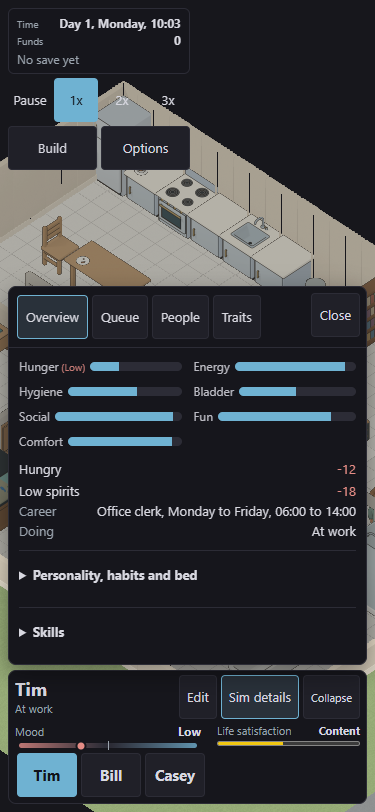
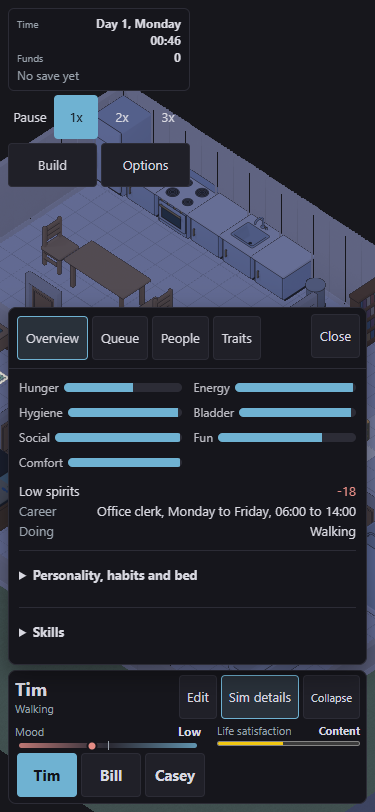
Put the Time label above the clock in the narrow desktop panel

Changed region(s): [[0.0, 0.0, 1.0, 1.0], [0.2347, 0.0, 0.4987, 0.0924], [0.2053, 0.8929, 0.264, 0.9236]]

diff --git a/web/src/ui/compact-hud.css b/web/src/ui/compact-hud.css
@@ -21,6 +21,13 @@
 #household-summary .summary-value { font-size: 12px; overflow-wrap: anywhere; }
 /* The clock is always two lines, day and weekday then time, so the panel keeps one height. */
 #clock-value { white-space: pre-line; }
+/* In the 144-pixel desktop panel the Time label sits above the clock, so the
+   clock has the panel's full inner width and keeps two lines on every day.
+   The wider compact and Build panels keep the label beside it. */
+@media (min-width: 601px) and (min-height: 481px) and (not (any-pointer: coarse)) {
+  body:not([data-building='true']) #clock-row { flex-direction: column; align-items: stretch; gap: 0; }
+  body:not([data-building='true']) #clock-row .summary-value { text-align: left; }
+}
 #hud-status { margin-top: 2px; }
 #world-actions { display: grid; grid-template-columns: 1fr 1fr; gap: 4px; }
 #world-actions #builder-desktop { padding: 0; }

diff --git a/web/index.html b/web/index.html
@@ -944,7 +944,7 @@
          they read all the time. -->
     <div id="hud">
       <section id="household-summary" aria-label="Household status">
-        <div class="summary-row">
+        <div id="clock-row" class="summary-row">
           <span class="summary-label">Time</span>
           <strong id="clock-value" class="summary-value">Day 1, Monday&#10;00:00</strong>
         </div>

diff --git a/docs/specs/2026-10-06-calendar-verification.md b/docs/specs/2026-10-06-calendar-verification.md
@@ -57,36 +57,34 @@ The web tests are in `web/tests/game-hud.test.ts` and `web/tests/bridge.test.ts`
 
 ## Displayed browser
 
-Screenshots checked: the working tree of `twcl/calendar` on top of `63e3142b`, with the first version of this task's changes, before they were committed. That version printed the clock on one line; the two-line clock was measured afterwards, as described below. The bundle `assets/index-BwR1pszi.js` was built with `npm run build` after `wasm-pack build crates/terri-wasm --target web --out-dir ../../web/src/wasm`, and served with `npx vite preview --port 4173 --strictPort` from `web/` at `https://localhost:4173/`.
+Code checked: the working tree of `twcl/calendar` on top of `0b94e565`, with the stacked Time row, before it was committed. The bundle `assets/index-BWj0fjLn.js` was built with `npm run build` from the wasm package built by `wasm-pack build crates/terri-wasm --target web --out-dir ../../web/src/wasm`, and served with `npx vite preview --port 4173 --strictPort` from `web/` at `https://localhost:4173/`.
 
-The in-app browser pane loaded the bundle but was hidden and delivered no animation frames in two seconds, so the check used the Playwright plugin's Chromium (Chrome 154 on Windows, with `navigator.gpu` present), which ran 58 frames a second. Sound was muted before the game ran by setting `terrilives.audio-preferences.v1` to `{"version":1,"muted":true,"effectsLevel":0,"voicesLevel":0}` and reloading; the Options flyout showed `Sound: off`. The first-run Help was already dismissed in that browser profile.
+The in-app browser pane loaded the game but was hidden and delivered no animation frames in two seconds, so the check used the Playwright plugin's Chromium (Chrome 154 on Windows, with `navigator.gpu` present), which ran about 58 frames a second. `terrilives.audio-preferences.v1` held `{"version":1,"muted":true,"effectsLevel":0,"voicesLevel":0}`, and the Options flyout showed `Sound: off` before and after New game. The first-run Help was already dismissed in that browser profile.
 
-That profile held another session's saved household (3488 bytes, SHA-256 `1b47dbca...2a3eec`). It was copied to a backup file in the same browser storage, `New game` then `Start over` gave the shipped lot, and after the check the backup was written back over the save, compared byte for byte and found equal, with the same SHA-256, and the backup removed. The page was closed on Day 1 at 12:17, before the next day's autosave.
+That profile held another session's saved household (3488 bytes, SHA-256 `1b47dbca...2a3eec`). It was copied to a backup file in the same browser storage, `New game` then `Start over` gave the shipped lot, and in the script's final step the backup was written back over the save, compared byte for byte and found equal, with the same SHA-256, and the backup removed. The page was closed on Day 1 at 00:47, long before the next day's autosave.
 
 Tim was selected and Sim details opened on Overview.
 
-1. [Desktop, 1280 by 800](../assets/review-evidence/calendar/desktop-clock.png): the clock reads `Day 1, Monday, 03:02` and the Career row reads `Office clerk, Monday to Friday, 06:00 to 14:00`.
-2. [Phone, 375 by 812](../assets/review-evidence/calendar/phone-clock.png): the clock reads `Day 1, Monday, 10:03`, Tim's activity reads `At work`, and the Career row shows the same text on one line. The document's scroll width equalled its 375-pixel client width.
+1. [Desktop, 1280 by 800](../assets/review-evidence/calendar/desktop-clock.png): the household panel shows the `Time` label above the clock `Day 1, Monday` and `00:30`, and the Career row reads `Office clerk, Monday to Friday, 06:00 to 14:00`.
+2. [Phone, 375 by 812](../assets/review-evidence/calendar/phone-clock.png): the compact panel keeps the `Time` label beside the clock `Day 1, Monday` and `00:46`, and the Career row shows the same text on one line. No element extended past the right edge, and the document's scroll width equalled its 375-pixel client width.
 
-Two-line clock: the working tree on top of `1b372a2c` with the two-line change, bundle `assets/index-B-iq77M0.js`, served the same way and opened in the same Playwright Chromium. The clock element's computed `white-space` was `pre-line`. Each text below was set in place on `#clock-value` and the household panel measured, then the live text was put back. The saved household in that profile was not replaced for this measurement; its SHA-256 was the same before and after.
+On the desktop layout, where the panel is 144 pixels wide, the Time row is stacked: the computed `flex-direction` of `#clock-row` was `column`, and the clock had the panel's full inner width of 126 pixels. The compact layout, used below 601 pixels wide or 481 pixels tall and on coarse pointers, keeps the label beside the clock in a 182-pixel panel; its `flex-direction` was `row`. The clock element's computed `white-space` was `pre-line` in both. Each text below was set in place on `#clock-value` and the household panel measured, then the live text was put back.
 
-| Clock text | Desktop, 1280 by 800: lines, panel height | Phone, 375 by 812: lines, panel height |
+| Clock text | Desktop: lines, panel height | Phone: lines, panel height |
 |---|---|---|
-| `Day 1, Monday` / `00:00` | 2, 83.2 px | 2, 83.2 px |
-| `Day 5, Friday` / `12:00` | 2, 83.2 px | 2, 83.2 px |
-| `Day 3, Wednesday` / `23:59` | 3, 100.0 px | 2, 83.2 px |
-| `Day 13, Wednesday` / `23:59` | 3, 100.0 px | 2, 83.2 px |
-| `Day 100, Wednesday` / `23:59` | 3, 100.0 px | 2, 83.2 px |
-| `Day 1000, Wednesday` / `23:59` | 3, 100.0 px | 2, 83.2 px |
-| `Day and time unavailable` | 2, 83.2 px | 2, 83.2 px |
+| `Day 1, Monday` / `00:00` | 2, 97.19 px | 2, 83.19 px |
+| `Day 3, Wednesday` / `23:59` | 2, 97.19 px | 2, 83.19 px |
+| `Day 100, Wednesday` / `23:59` | 2, 97.19 px | 2, 83.19 px |
+| `Day 100, Saturday` / `23:59` | 2, 97.19 px | 2, 83.19 px |
+| `Day 1000, Thursday` / `23:59` | 2, 97.19 px | 2, 83.19 px |
 
-On the phone viewport the panel height is the same for every text. On desktop it is not: the value column beside the `Time` label is 100 pixels wide inside the 144-pixel panel, and `Day 3, Wednesday` needs 104 pixels on one line, so the first line wraps and the panel grows by 16.8 pixels, moving the controls below it. Checking every weekday at 23:59 on days 1, 10 and 100, the panel grew on every Wednesday, and from day 100 also on Thursdays and Saturdays; the other weekdays kept 83.2 pixels. Nothing overflowed the panel and the document's scroll width equalled its client width at both sizes. Measured with the first line kept unwrapped (`white-space: pre`), the widths are 104 pixels for `Day 3, Wednesday`, 117 for `Day 100, Wednesday` and 124 for `Day 1000, Wednesday`; the panel's inner width is 126 pixels, so the full width fits them only if the `Time` label does not share the line. After this measurement the Playwright pages were closed, the preview server was stopped, and port 4173 was free.
+The panel height is identical for all five texts at each size, so the Pause, speed, Build and Options controls do not move at midnight. On the phone the widest of them, `Day 100, Wednesday`, measured 117 pixels beside the label and did not wrap or clip.
 
-Console, across the three page loads: 57 entries, all periodic frame-timing logs except one error, the 404 for `favicon.ico`. No warnings.
+Console: every page load logged periodic frame-timing entries and one error, the 404 for `favicon.ico`. No warnings.
 
-Cleanup: the viewport was reset to 1280 by 800, the Playwright page was closed, the in-app pane's only tab was closed, the preview server was stopped, and `Get-NetTCPConnection -LocalPort 4173 -State Listen` then returned nothing.
+Cleanup: the viewport was reset to 1280 by 800 and the Playwright page closed in the script's final step, the in-app pane's only tab was closed, the preview server was stopped, and `Get-NetTCPConnection -LocalPort 4173 -State Listen` then returned nothing.
 
-Not checked: a weekend day in the browser (the shift tests and the boundary tests cover it); a physical phone; the phone check used a resized desktop viewport without a mobile user agent or touch input; light and dark theme variants.
+Not checked: a weekend day in the browser (the shift tests and the boundary tests cover it); a physical phone; the phone check used a resized desktop viewport without a mobile user agent or touch input; Build mode, whose wider panel keeps the label beside the clock; light and dark theme variants.
 
 ## Delivery
 

diff --git a/docs/specs/2026-10-06-calendar.md b/docs/specs/2026-10-06-calendar.md
@@ -12,7 +12,7 @@ Each career in `content/careers.toml` gains `working_days`, a list of weekday na
 
 ## [CAL-hud] What the player reads
 
-The household clock reads `Day {n}, {Weekday}` on one line and `{hh}:{mm}` on the next, with the full weekday name, for example `Day 1, Monday` above `06:00`. The clock always takes those two lines, so the household panel does not change height at midnight. The selected person's Career row in Sim details reads the job label followed by its schedule: `Office clerk, Monday to Friday, 06:00 to 14:00` when the working days are one contiguous run, otherwise the day names listed with commas. Functional text stays plain.
+The household clock reads `Day {n}, {Weekday}` on one line and `{hh}:{mm}` on the next, with the full weekday name, for example `Day 1, Monday` above `06:00`. The clock always takes those two lines, so the household panel does not change height at midnight. In the narrow desktop panel the `Time` label sits on its own line above the clock, which gives the clock the panel's full width; the wider compact panel keeps the label beside it. The selected person's Career row in Sim details reads the job label followed by its schedule: `Office clerk, Monday to Friday, 06:00 to 14:00` when the working days are one contiguous run, otherwise the day names listed with commas. Functional text stays plain.
 
 ## [CAL-evidence] Proof required before delivery
 
